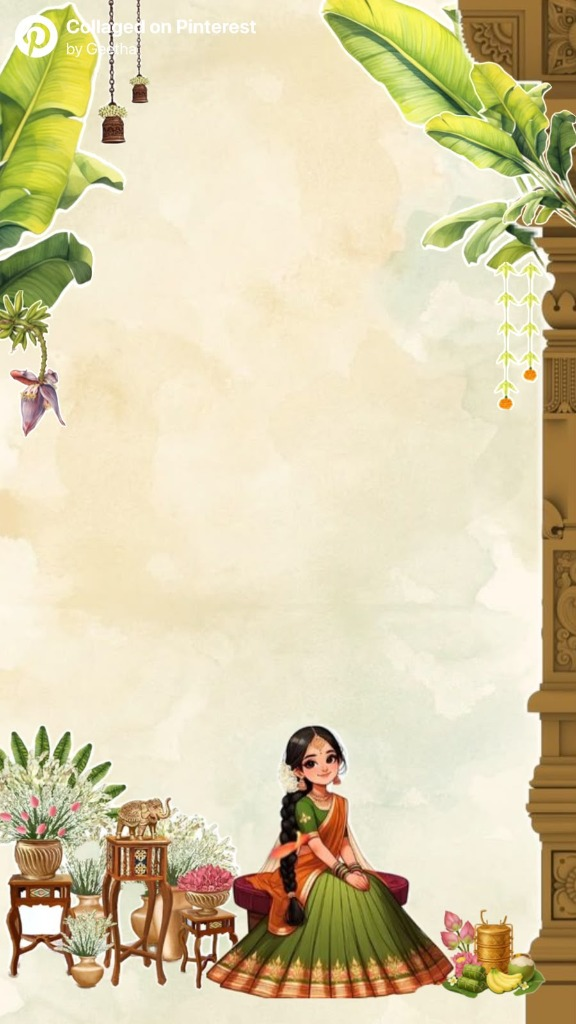
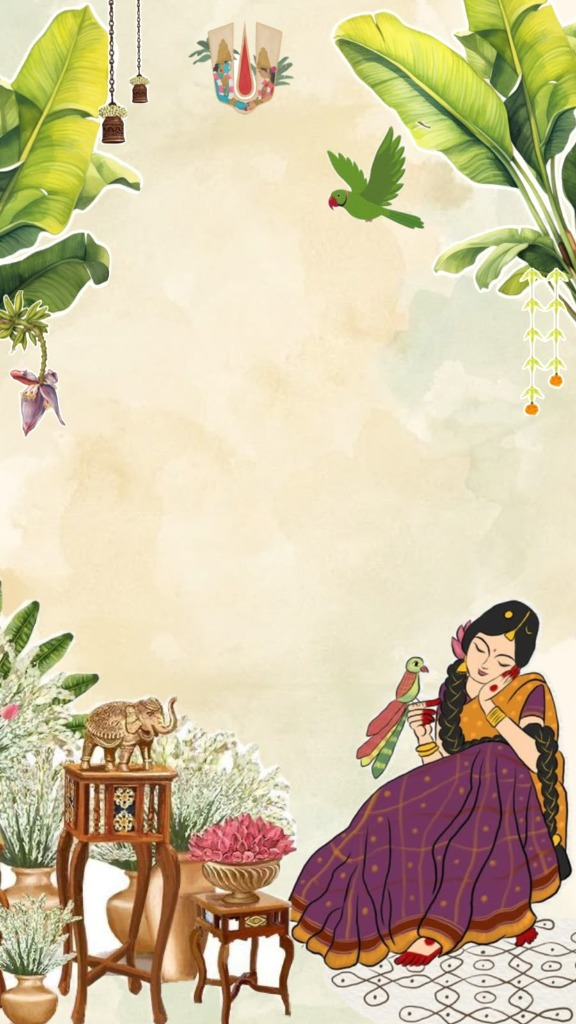
Update event images, rename to Pelli Kuthuru & Haldi, Sangeeth, Kalyanam, and align cards

diff --git a/src/components/WeddingDetailsSection.tsx b/src/components/WeddingDetailsSection.tsx
@@ -288,7 +288,7 @@ export const WeddingDetailsSection: React.FC<WeddingDetailsSectionProps> = ({ da
           <MandalaDivider />
         </div>
 
-        <div className="grid grid-cols-1 md:grid-cols-3 gap-6">
+        <div className="grid grid-cols-1 md:grid-cols-3 gap-6 items-center">
           {data.brideSideSchedule.map((item, idx) => (
             <motion.div
               key={item.event}
@@ -297,18 +297,18 @@ export const WeddingDetailsSection: React.FC<WeddingDetailsSectionProps> = ({ da
               viewport={{ once: true }}
               whileHover={{ y: -4 }}
               transition={{ delay: idx * 0.08, duration: 0.45 }}
-              className="relative w-full max-w-[380px] mx-auto aspect-[9/16] rounded-3xl p-5 sm:p-6 border-2 border-[#B8860B]/75 shadow-[0_20px_50px_rgba(61,11,17,0.2)] overflow-hidden bg-cover bg-center bg-no-repeat flex items-center justify-center"
+              className="relative w-full max-w-[340px] mx-auto aspect-[9/16] rounded-3xl p-4 border-2 border-[#B8860B]/75 shadow-[0_20px_50px_rgba(61,11,17,0.2)] overflow-hidden bg-cover bg-center bg-no-repeat flex items-center justify-center"
               style={{
                 backgroundColor: '#FBF5E8',
                 backgroundImage: item.bgImage ? `url('${item.bgImage}')` : undefined,
               }}
             >
-              <div className="relative z-10 w-[88%] max-w-[260px] text-center space-y-1.5 bg-[#FFFDF8]/90 backdrop-blur-[2px] px-3.5 py-3 rounded-2xl border border-[#B8860B]/50 shadow-md">
+              <div className="relative z-10 w-[86%] max-w-[250px] text-center space-y-2 bg-[#FFFDF8]/90 backdrop-blur-[1px] px-4 py-3.5 rounded-2xl border border-[#B8860B]/55 shadow-sm">
                 <span className="inline-block px-2.5 py-0.5 rounded-full bg-[#7A1824] text-[#FCF6BA] text-[10px] font-sans font-bold uppercase tracking-wider">
                   {item.date} • {item.dayLabel}
                 </span>
 
-                <h3 className="font-display text-sm sm:text-base font-bold text-temple-crimson leading-snug">
+                <h3 className="font-display text-base sm:text-lg font-bold text-[#6B1020] tracking-wide leading-snug">
                   {item.event}
                 </h3>
 
@@ -317,8 +317,8 @@ export const WeddingDetailsSection: React.FC<WeddingDetailsSectionProps> = ({ da
                   <span>{item.time}</span>
                 </div>
 
-                <div className="pt-1.5 border-t border-[#B8860B]/35 text-[11px] font-sans text-[#4A2C11] flex flex-col items-center gap-1.5">
-                  <span className="inline-flex items-center justify-center gap-1 font-medium leading-tight">
+                <div className="pt-1.5 border-t border-[#B8860B]/35 text-[11px] font-sans text-[#3D0B11] flex flex-col items-center gap-1.5">
+                  <span className="inline-flex items-center justify-center gap-1 font-semibold leading-tight">
                     <MapPin className="w-3 h-3 text-[#7A1824] flex-shrink-0" />
                     <span>{item.venue}</span>
                   </span>

diff --git a/src/data/weddingData.ts b/src/data/weddingData.ts
@@ -193,7 +193,7 @@ export const defaultWeddingData: WeddingData = {
     {
       date: 'Dec 10, 2026',
       dayLabel: 'Thursday',
-      event: 'Pelli Kuthuru & Haldi Function',
+      event: 'Pelli Kuthuru & Haldi',
       time: '8:05 AM',
       venue: 'At Our Residence',
       iconType: 'haldi',
@@ -202,7 +202,7 @@ export const defaultWeddingData: WeddingData = {
     {
       date: 'Dec 11, 2026',
       dayLabel: 'Friday',
-      event: 'Pelli Kuthuru & Sangeeth',
+      event: 'Sangeeth',
       time: '6:00 PM',
       venue: 'At Our Residence',
       iconType: 'sangeet',
@@ -211,7 +211,7 @@ export const defaultWeddingData: WeddingData = {
     {
       date: 'Dec 12, 2026',
       dayLabel: 'Saturday',
-      event: 'Pelli Kuthuru & Pelli (Wedding)',
+      event: 'Kalyanam',
       time: '7:29 PM',
       venue: 'ASR Convention, Lalpuram, Guntur',
       mapUrl: 'https://share.google/EyIE2Beb1kxANXDZo',
